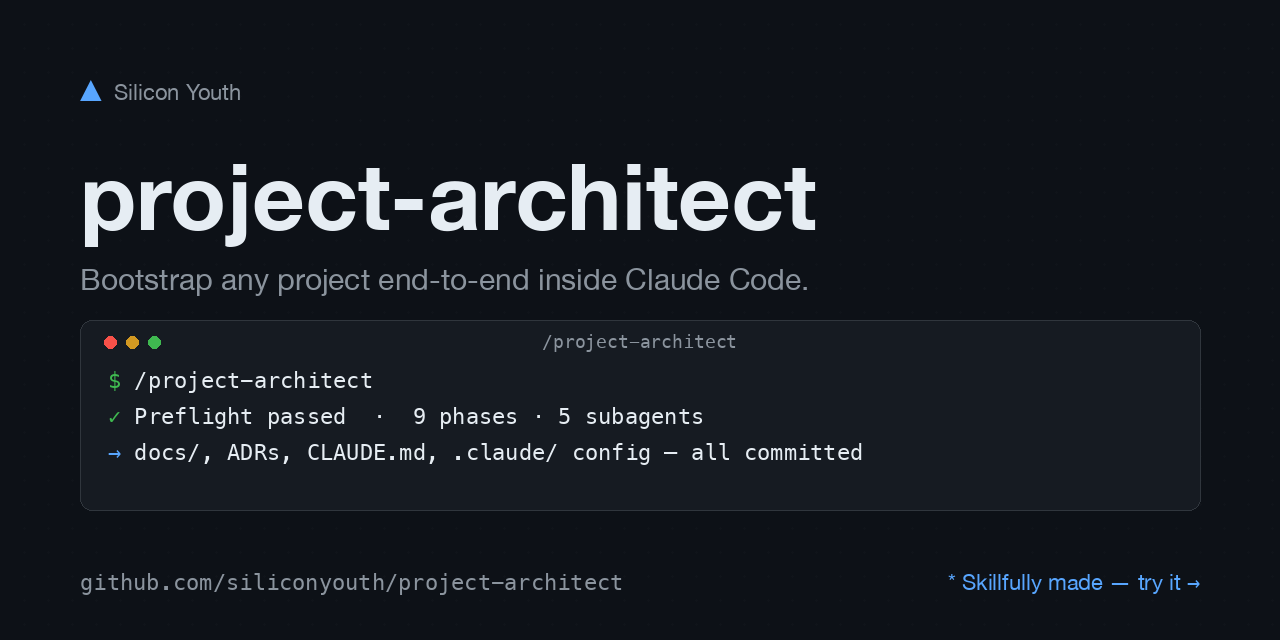
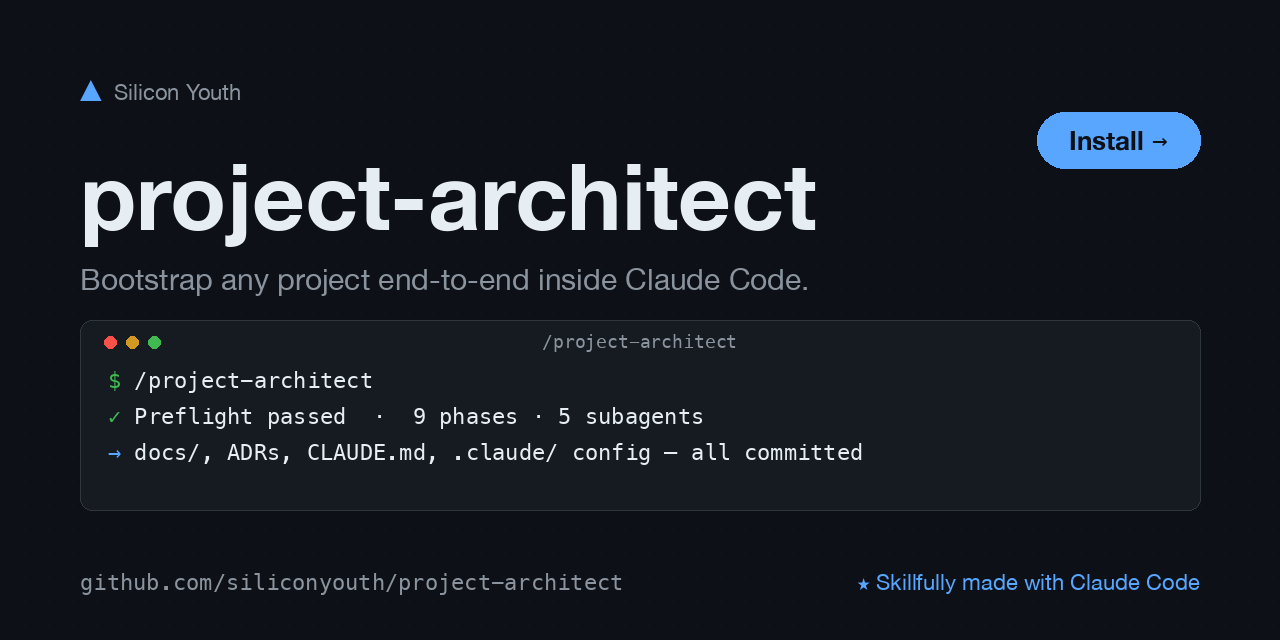
chore(release): v2.1.2 — social-preview redesign
- Footer right-side text: "★ Skillfully made with Claude Code"
  (replaces the previous "* Skillfully made — try it →" line)
- Added a pill-shaped "Install →" CTA button at top-right
- Star glyph (U+2605) renders correctly via Apple Symbols, no
  more asterisk fallback

Changed region(s): [[0.8125, 0.1562, 0.9375, 0.2812], [0.6875, 0.875, 0.9375, 0.9375]]

diff --git a/.github/social-preview.py b/.github/social-preview.py
@@ -16,15 +16,14 @@ To regenerate on each release, run this script after bumping plugin.json,
 then commit both the script change (if any) and the new social-preview.png.
 
 Notes on glyph substitutions:
-    - The original design called for a "✨" (U+2728 SPARKLES) prefix on the
-      footer CTA. None of the system fonts that PIL can load on macOS render
-      that glyph as a real shape (Helvetica Neue / Apple Symbols / Arial
-      Unicode all produce tofu boxes; only the color-emoji font has it, and
-      PIL refuses to load Apple Color Emoji because of its non-standard
-      pixel-size table). To keep the image flat-color and dependency-light
-      we substitute the ASCII asterisk "*" for the sparkles. All other
-      unicode glyphs in the spec (▲, ✓, →, ·) render correctly out of Menlo,
-      so they are used as-is.
+    - v2.1.2: The footer right-side now uses "★" (U+2605 BLACK STAR), which
+      renders as a real shape out of Menlo / Arial Unicode / Apple Symbols
+      (verified via PIL bbox + lit-pixel inspection). The earlier "*"
+      asterisk fallback for "✨" sparkles is no longer needed.
+    - The original "try it →" inline CTA was removed from the footer; the
+      CTA is now a dedicated pill-shaped button anchored to the top-right.
+    - All other unicode glyphs in the spec (▲, ✓, →, ·) render correctly
+      out of Menlo, so they are used as-is.
 """
 
 from __future__ import annotations
@@ -128,8 +127,12 @@ def load_fonts() -> dict[str, tuple[ImageFont.FreeTypeFont, str]]:
 
         # Footer.
         "footer_mono":   _load_first(MONO_REGULAR_CANDIDATES, 22),  # repo URL
-        "footer_sans":   _load_first(SANS_REGULAR_CANDIDATES, 22),  # CTA text
-        "footer_arrow":  _load_first(SYMBOL_CANDIDATES,       22),  # → glyph in CTA
+        "footer_sans":   _load_first(SANS_REGULAR_CANDIDATES, 22),  # right-side attribution
+        "footer_star":   _load_first(SYMBOL_CANDIDATES,       22),  # ★ glyph in attribution
+
+        # Top-right pill-shaped CTA: "Install →".
+        "cta":           _load_first(SANS_BOLD_CANDIDATES,    26),  # "Install" label, bold
+        "cta_arrow":     _load_first(SYMBOL_CANDIDATES,       26),  # → glyph in CTA
     }
 
 
@@ -234,6 +237,57 @@ def render() -> Image.Image:
         anchor="ls",
     )
 
+    # -------------------------------------------------------------------
+    # Top-right CTA: pill-shaped "Install →" button.
+    # Vertically centered around y=140 (in the publisher-line negative
+    # space, well clear of the title baseline at y=230). Right edge
+    # aligned with the terminal panel's right edge at x=1200.
+    # -------------------------------------------------------------------
+    cta_font, _ = fonts["cta"]
+    cta_arrow_font, _ = fonts["cta_arrow"]
+    cta_label = "Install"
+    cta_arrow = "→"
+    # Measure the two segments and the 8px gap between them.
+    cta_label_w, _ = _measure(draw, cta_label, cta_font)
+    cta_arrow_w, _ = _measure(draw, cta_arrow, cta_arrow_font)
+    cta_gap = 8
+    cta_text_w = cta_label_w + cta_gap + cta_arrow_w
+    cta_pad_x = 32
+    cta_btn_h = 56
+    cta_btn_w = cta_pad_x + cta_text_w + cta_pad_x
+    cta_btn_right = 1200
+    cta_btn_left = cta_btn_right - cta_btn_w
+    cta_btn_cy = 140
+    cta_btn_top = cta_btn_cy - cta_btn_h // 2
+    cta_btn_bot = cta_btn_top + cta_btn_h
+    cta_radius = cta_btn_h // 2  # = 28 → perfect pill
+    rounded_rect(
+        draw,
+        (cta_btn_left, cta_btn_top, cta_btn_right, cta_btn_bot),
+        radius=cta_radius,
+        fill=COLORS["accent"],
+        outline=COLORS["accent"],
+        outline_width=1,
+    )
+    # Center the text vertically using the middle-baseline (ms) anchor.
+    # Use the button's vertical center and let the anchor handle baseline.
+    cta_text_left = cta_btn_left + cta_pad_x
+    # "mm" anchor centers both horizontally and vertically.
+    draw.text(
+        (cta_text_left + cta_label_w // 2, cta_btn_cy),
+        cta_label,
+        fill=COLORS["bg"],
+        font=cta_font,
+        anchor="mm",
+    )
+    draw.text(
+        (cta_text_left + cta_label_w + cta_gap + cta_arrow_w // 2, cta_btn_cy),
+        cta_arrow,
+        fill=COLORS["bg"],
+        font=cta_arrow_font,
+        anchor="mm",
+    )
+
     # Title: "project-architect"
     title_font, _ = fonts["title"]
     title_y = 230  # baseline; large font sits above this
@@ -327,7 +381,7 @@ def render() -> Image.Image:
     # -------------------------------------------------------------------
     footer_mono_font, _ = fonts["footer_mono"]
     footer_sans_font, _ = fonts["footer_sans"]
-    footer_arrow_font, _ = fonts["footer_arrow"]
+    footer_star_font, _ = fonts["footer_star"]
     footer_y = 590  # baseline
 
     # Left: repo URL in mono, muted.
@@ -339,21 +393,22 @@ def render() -> Image.Image:
         anchor="ls",
     )
 
-    # Right: CTA. The "✨" glyph isn't available in any PIL-loadable system
-    # font as a real shape, so we substitute "*" per design-spec instruction.
-    # Right-align the CTA against x=1200 (panel right edge) so it matches the
-    # panel's right margin. Use a "rs" anchor to right-align by baseline.
-    cta_segments = [
-        ("* Skillfully made — try it ", COLORS["accent"], footer_sans_font),
-        ("→", COLORS["accent"], footer_arrow_font),  # → from a symbol-capable font
+    # Right: attribution. "★ Skillfully made with Claude Code".
+    # The ★ glyph (U+2605 BLACK STAR) is rendered by a symbol-capable font
+    # (Menlo → Arial Unicode → Apple Symbols) so it lands as a real star
+    # rather than an asterisk fallback. Right-align against x=1200 to match
+    # the terminal panel's right edge.
+    footer_segments = [
+        ("★", COLORS["accent"], footer_star_font),
+        (" Skillfully made with Claude Code", COLORS["accent"], footer_sans_font),
     ]
     # Measure total width to right-align.
     total_w = 0
-    for text, _, font in cta_segments:
+    for text, _, font in footer_segments:
         w, _h = _measure(draw, text, font)
         total_w += w
-    cta_x_start = 1200 - total_w
-    draw_text_run(draw, cta_x_start, footer_y, cta_segments, anchor="ls")
+    footer_x_start = 1200 - total_w
+    draw_text_run(draw, footer_x_start, footer_y, footer_segments, anchor="ls")
 
     return img
 

diff --git a/CHANGELOG.md b/CHANGELOG.md
@@ -10,6 +10,12 @@ All notable changes to the `project-architect` plugin.
 
 This project follows [Semantic Versioning](https://semver.org/spec/v2.0.0.html).
 
+## [2.1.2] — 2026-05-12
+
+### Changed
+
+- **Social-preview image redesigned**: footer right-side now reads "★ Skillfully made with Claude Code" (proper star glyph instead of the previous `*` fallback). The "try it →" inline CTA was removed; replaced with a dedicated pill-shaped **Install →** button in the top-right corner — higher click-conversion shape with dark-on-blue contrast.
+
 ## [2.1.1] — 2026-05-12
 
 ### Added

diff --git a/README.md b/README.md
@@ -5,7 +5,7 @@ License: MIT
 -->
 
 <p align="center">
-  <img src=".github/social-preview.png" alt="project-architect — Bootstrap any project end-to-end inside Claude Code" width="100%" />
+  <img src=".github/social-preview.png" alt="project-architect — Bootstrap any project end-to-end inside Claude Code · Skillfully made with Claude Code" width="100%" />
 </p>
 
 <div align="center">
